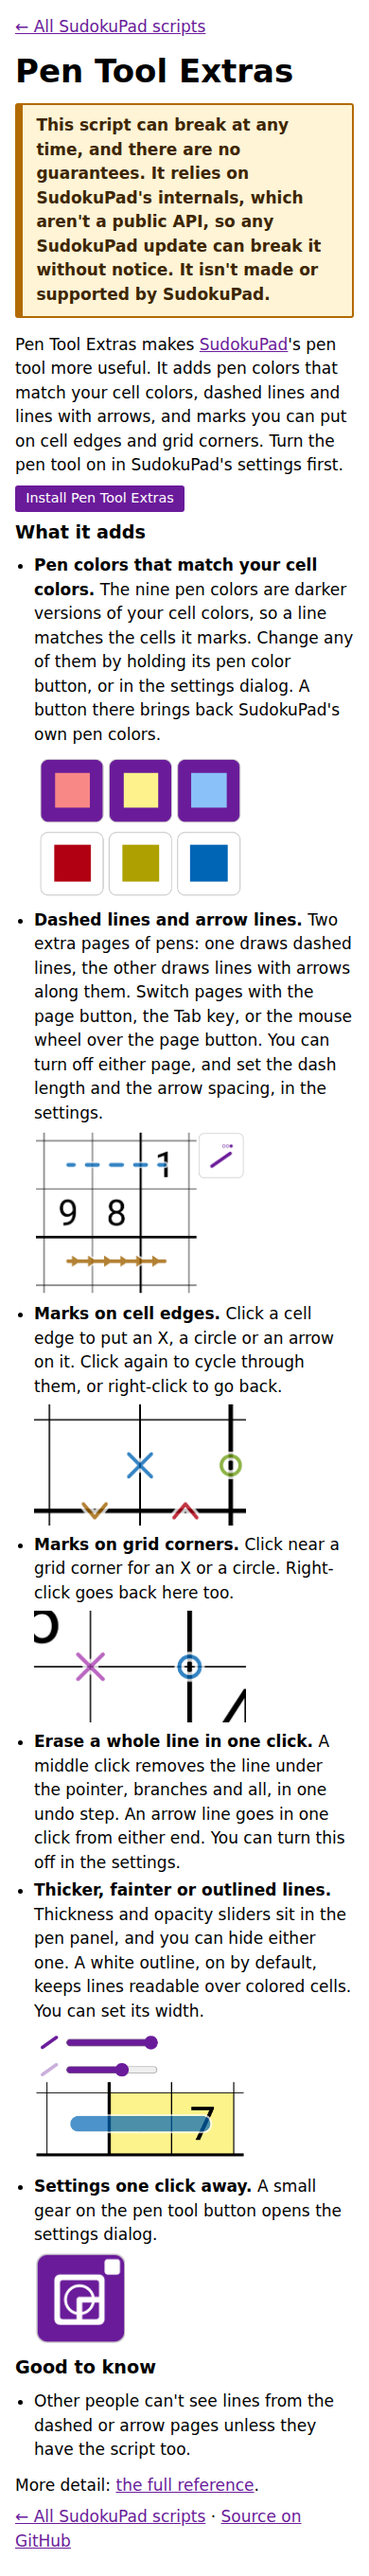
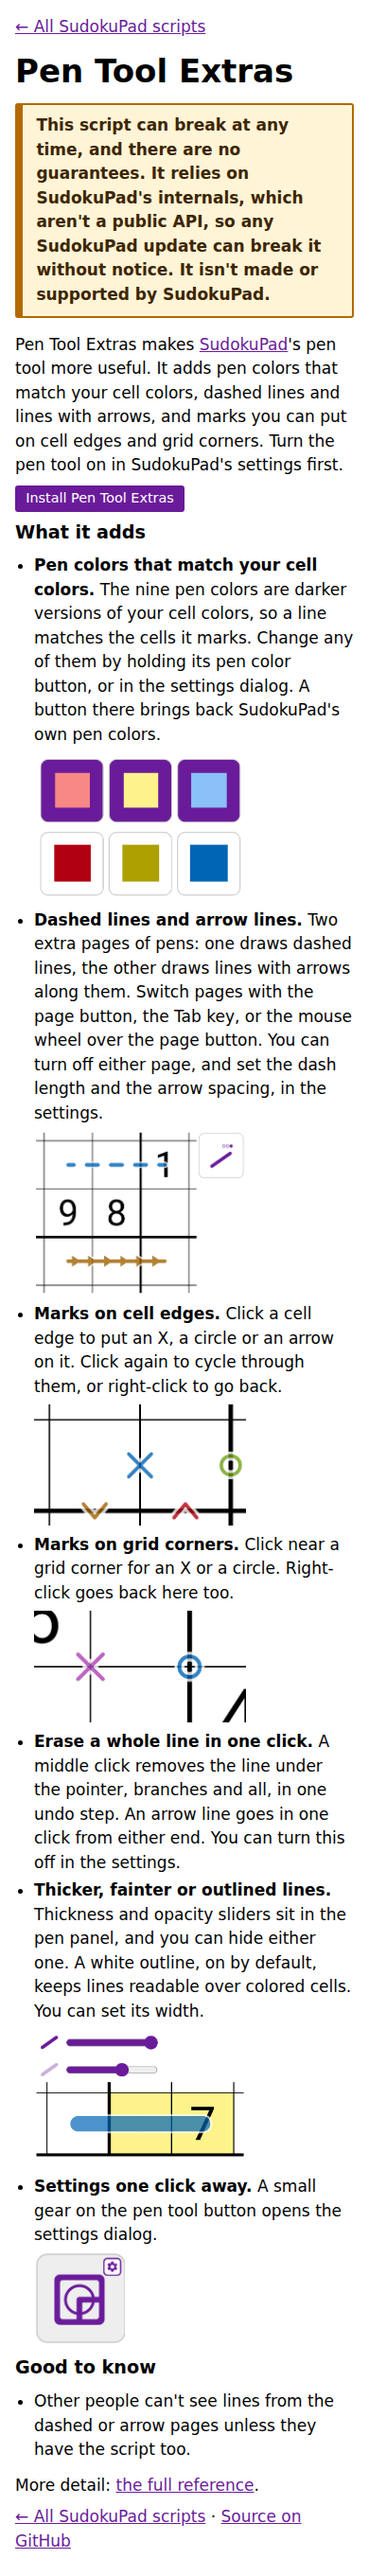
Review fixes: gear picture shows the gear, non-empty alt check works, shared test helpers, screenshot script writes only when all are taken
Closes #205

Changed region(s): [[0.0923, 0.8744, 0.3385, 0.9368]]

diff --git a/site.test.js b/site.test.js
@@ -99,13 +99,15 @@ for (const [name, text] of Object.entries(WARNINGS)) {
 }
 
 // The details page text is pinned word for word: each feature says what you can do, not which control the script adds.
+const items = html => [...html.matchAll(/<li>([\s\S]*?)<\/li>/g)].map(m => m[1])
 const section = (page, heading) => {
   const m = page.match(new RegExp(`<h2>${heading}</h2>\\s*<ul>([\\s\\S]*?)</ul>`))
   assert.ok(m, `site/${DETAILS} has no <h2>${heading}</h2> followed by a list`)
-  return [...m[1].matchAll(/<li>([\s\S]*?)<\/li>/g)].map(li => plain(li[1]))
+  return items(m[1]).map(plain)
 }
 // An item's opening words are its bold lead-in: the first <strong> of the item.
-const leadIns = page => [...page.matchAll(/<li><strong>([^<]*)<\/strong>/g)].map(m => m[1])
+const leadIn = li => (li.match(/^<strong>([^<]*)<\/strong>/) || [])[1]
+const leadIns = page => items(page).map(leadIn).filter(Boolean)
 
 test(`${DETAILS} intro says what the script adds`, () => {
   const m = read(DETAILS).match(/<\/p>\s*<p>(Pen Tool Extras makes[\s\S]*?)<\/p>/)
@@ -137,8 +139,8 @@ test(`${DETAILS} opens each feature with its bold lead-in`, () => {
   ])
 })
 
-// Each feature a still picture can show has one small picture inside its item; the erase item has none, since a
-// middle click does not show in a still picture. The one large example figure is gone.
+// Each feature a still picture can show has one picture inside its item; the erase item has none, since a
+// middle click does not show in a still picture. The page has no figure.
 const PICTURES = {
   'Pen colors that match your cell colors.': 'colors',
   'Dashed lines and arrow lines.': 'lines',
@@ -148,22 +150,21 @@ const PICTURES = {
   'Settings one click away.': 'gear'
 }
 const NO_PICTURE = 'Erase a whole line in one click.'
-const items = page => [...page.matchAll(/<li>([\s\S]*?)<\/li>/g)].map(m => m[1])
 const imgs = html => [...html.matchAll(/<img\b[^>]*>/g)].map(m => m[0])
 
-test(`${DETAILS} puts one small picture with alt text on each feature a picture can show`, () => {
-  const byLeadIn = new Map(items(read(DETAILS)).map(li => [(li.match(/<strong>([^<]*)<\/strong>/) || [])[1], li]))
+test(`${DETAILS} puts one picture with alt text on each feature a picture can show`, () => {
+  const byLeadIn = new Map(items(read(DETAILS)).map(li => [leadIn(li), li]))
   for (const [leadIn, name] of Object.entries(PICTURES)) {
     const found = imgs(byLeadIn.get(leadIn) || '')
     assert.equal(found.length, 1, `"${leadIn}" has ${found.length} images, not 1`)
     assert.ok(found[0].includes(`src="${RAW}docs/research/pen-tool-extras-bullet-${name}.png"`), `"${leadIn}" does not show pen-tool-extras-bullet-${name}.png`)
-    assert.match(found[0], /\balt="[^"]*\S[^"]*"/, `"${leadIn}" has an image with no alt text`)
+    assert.match(found[0], /\balt="[^"]*[^"\s][^"]*"/, `"${leadIn}" has an image with no alt text`)
   }
 })
 
 test(`${DETAILS} has no picture on the erase item and no large example figure`, () => {
   const page = read(DETAILS)
-  const erase = items(page).find(li => li.includes(`<strong>${NO_PICTURE}</strong>`))
+  const erase = items(page).find(li => leadIn(li) === NO_PICTURE)
   assert.ok(erase, `site/${DETAILS} has no "${NO_PICTURE}" item`)
   assert.deepEqual(imgs(erase), [])
   assert.doesNotMatch(page, /<figure\b/)
